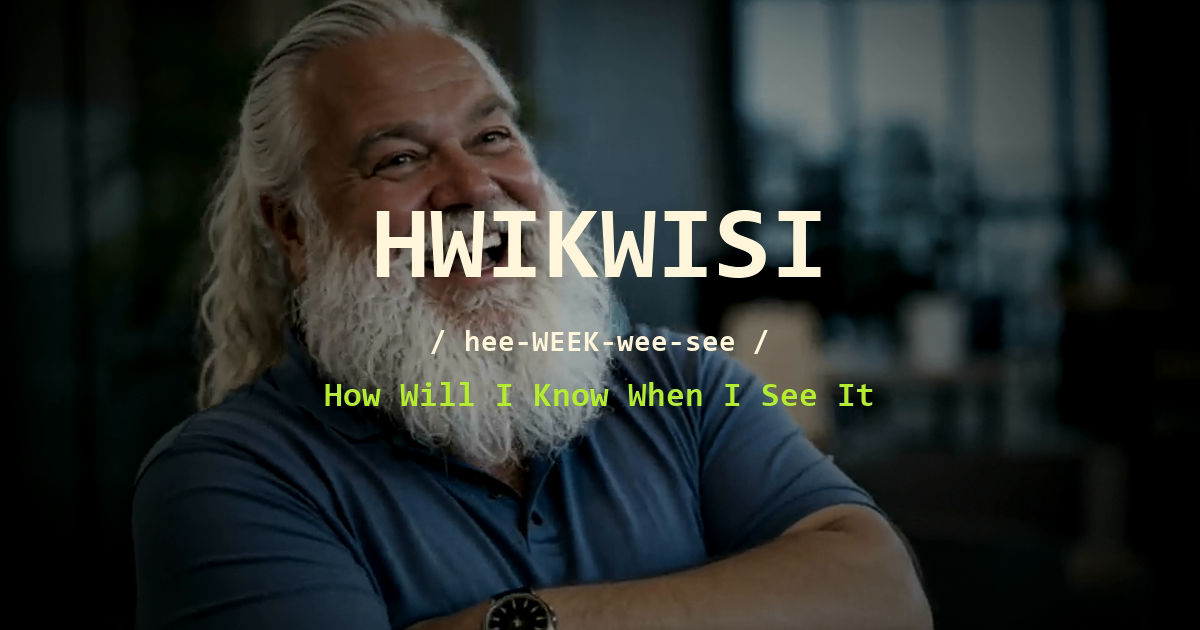
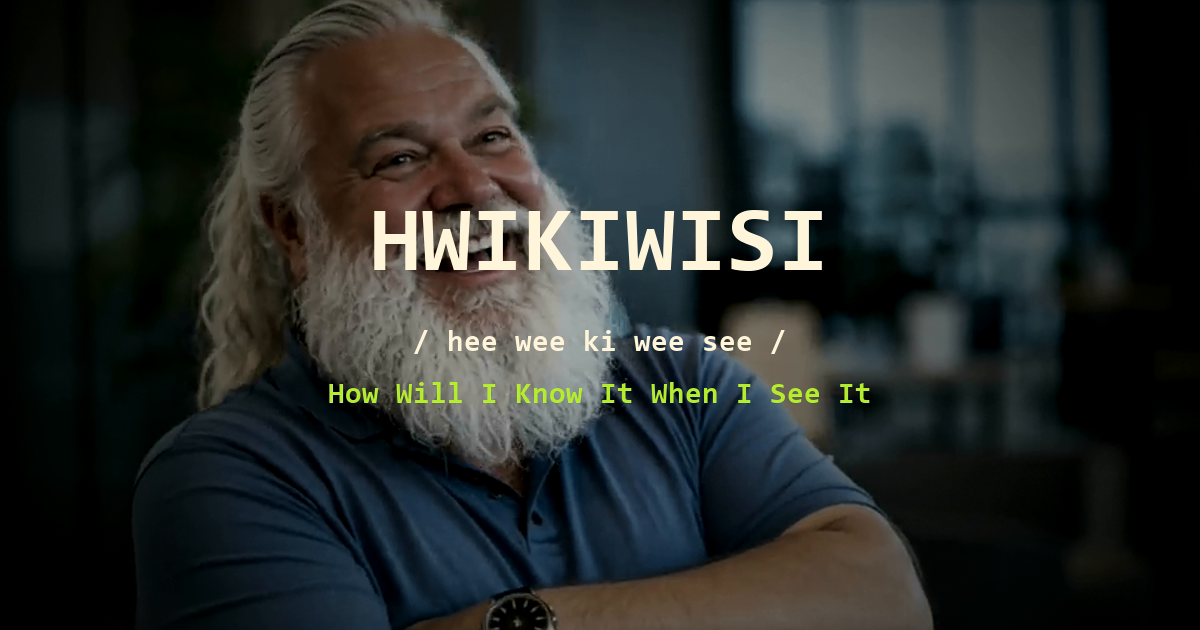
Correct HWIKIWISI copy

Changed region(s): [[0.3083, 0.3317, 0.6783, 0.4524], [0.2467, 0.6032, 0.74, 0.6635], [0.3392, 0.5127, 0.6475, 0.573]]

diff --git a/index.html b/index.html
@@ -3,15 +3,15 @@
   <head>
     <meta charset="utf-8">
     <meta name="viewport" content="width=device-width, initial-scale=1">
-    <title>HWIKWISI - How Will I Know When I See It</title>
+    <title>HWIKIWISI - How Will I Know It When I See It</title>
     <meta
       name="description"
-      content="HWIKWISI means How Will I Know When I See It: a leadership principle about clear goals, vivid outcomes, and knowing done when it appears."
+      content="HWIKIWISI means How Will I Know It When I See It: a leadership principle about clear goals, vivid outcomes, and knowing done when it appears."
     >
     <link rel="canonical" href="https://chazm.github.io/hwikwisi/">
     <meta name="theme-color" content="#050506">
 
-    <meta property="og:title" content="HWIKWISI - How Will I Know When I See It">
+    <meta property="og:title" content="HWIKIWISI - How Will I Know It When I See It">
     <meta
       property="og:description"
       content="A tiny manifesto for leaders who give teams a clear picture of the end goal: vivid enough to know it when they see it."
@@ -21,10 +21,10 @@
     <meta property="og:image" content="https://chazm.github.io/hwikwisi/assets/og-card.png">
     <meta property="og:image:width" content="1200">
     <meta property="og:image:height" content="630">
-    <meta property="og:image:alt" content="HWIKWISI title over a theatrical PM coach video still.">
+    <meta property="og:image:alt" content="HWIKIWISI title over a theatrical agile coach video still.">
 
     <meta name="twitter:card" content="summary_large_image">
-    <meta name="twitter:title" content="HWIKWISI - How Will I Know When I See It">
+    <meta name="twitter:title" content="HWIKIWISI - How Will I Know It When I See It">
     <meta
       name="twitter:description"
       content="A tiny manifesto for leaders who make the destination clear enough to recognize."
@@ -33,14 +33,14 @@
 
     <link rel="preload" href="assets/fonts/IBMPlexMono-Bold.woff2" as="font" type="font/woff2" crossorigin>
     <link rel="preload" href="assets/fonts/IBMPlexMono-Regular.woff2" as="font" type="font/woff2" crossorigin>
-    <link rel="stylesheet" href="assets/styles.css?v=coach-bg">
+    <link rel="stylesheet" href="assets/styles.css?v=hwikiwisi">
 
     <script type="application/ld+json">
       {
         "@context": "https://schema.org",
         "@type": "DefinedTerm",
-        "name": "HWIKWISI",
-        "alternateName": "How Will I Know When I See It",
+        "name": "HWIKIWISI",
+        "alternateName": "How Will I Know It When I See It",
         "description": "A leadership principle: give your team a clear, vivid picture of the end goal so they recognize success when they see it.",
         "inDefinedTermSet": "https://chazm.github.io/hwikwisi/"
       }
@@ -49,7 +49,7 @@
       {
         "@context": "https://schema.org",
         "@type": "WebSite",
-        "name": "HWIKWISI",
+        "name": "HWIKIWISI",
         "url": "https://chazm.github.io/hwikwisi/"
       }
     </script>
@@ -60,18 +60,18 @@
         "mainEntity": [
           {
             "@type": "Question",
-            "name": "What does HWIKWISI mean?",
+            "name": "What does HWIKIWISI mean?",
             "acceptedAnswer": {
               "@type": "Answer",
-              "text": "HWIKWISI means How Will I Know When I See It, a leadership reminder to define the end goal clearly enough that the team can recognize success."
+              "text": "HWIKIWISI means How Will I Know It When I See It, a leadership reminder to define the end goal clearly enough that the team can recognize success."
             }
           },
           {
             "@type": "Question",
-            "name": "How do you pronounce HWIKWISI?",
+            "name": "How do you pronounce HWIKIWISI?",
             "acceptedAnswer": {
               "@type": "Answer",
-              "text": "HWIKWISI is pronounced hee-WEEK-wee-see."
+              "text": "HWIKIWISI is pronounced hee wee ki wee see."
             }
           }
         ]
@@ -80,19 +80,19 @@
   </head>
   <body>
     <div class="bg" aria-hidden="true">
-      <video class="bg-video" autoplay muted loop playsinline preload="none" poster="assets/poster.webp?v=coach-bg">
-        <source src="assets/hwikwisi.webm?v=coach-bg" type="video/webm">
-        <source src="assets/hwikwisi.mp4?v=coach-bg" type="video/mp4">
+      <video class="bg-video" autoplay muted loop playsinline preload="none" poster="assets/poster.webp?v=hwikiwisi">
+        <source src="assets/hwikwisi.webm?v=hwikiwisi" type="video/webm">
+        <source src="assets/hwikwisi.mp4?v=hwikiwisi" type="video/mp4">
       </video>
       <div class="bg-pulse"></div>
       <div class="bg-scrim"></div>
     </div>
 
     <main>
-      <header class="hero" aria-label="HWIKWISI manifesto">
-        <h1>HWIKWISI</h1>
-        <p class="pronounce">/ hee-WEEK-wee-see /</p>
-        <p class="expansion">How Will I Know When I See It</p>
+      <header class="hero" aria-label="HWIKIWISI manifesto">
+        <h1>HWIKIWISI</h1>
+        <p class="pronounce">/ hee wee ki wee see /</p>
+        <p class="expansion">How Will I Know It When I See It</p>
 
         <p class="typer" aria-live="off">
           <span class="typed"></span><span class="caret">|</span>
@@ -113,9 +113,9 @@
     </main>
 
     <footer>
-      <p>PM coach coinage. Preserved with maximum seriousness.</p>
+      <p>Agile coach coinage. Preserved with maximum seriousness.</p>
     </footer>
 
-    <script src="assets/main.js?v=coach-bg" defer></script>
+    <script src="assets/main.js?v=hwikiwisi" defer></script>
   </body>
 </html>

diff --git a/404.html b/404.html
@@ -4,14 +4,14 @@
     <meta charset="utf-8">
     <meta name="viewport" content="width=device-width, initial-scale=1">
     <meta name="robots" content="noindex">
-    <title>HWIKWISI - Not Found</title>
+    <title>HWIKIWISI - Not Found</title>
     <link rel="stylesheet" href="assets/styles.css">
   </head>
   <body>
     <main>
       <header class="hero" aria-label="Not found">
-        <h1>HWIKWISI</h1>
-        <p class="pronounce">/ hee-WEEK-wee-see /</p>
+        <h1>HWIKIWISI</h1>
+        <p class="pronounce">/ hee wee ki wee see /</p>
         <p class="expansion">This is not the thing.</p>
         <blockquote class="manifesto">
           A good leader gives their team a clear picture of the end.

diff --git a/AGENTS.md b/AGENTS.md
@@ -2,7 +2,7 @@
 
 ## Project Intent
 
-HWIKWISI is a one-page, static, SEO-first homage to the phrase "How Will I Know When I See It." The joke is the contrast: the DOM and layout should feel plain, reverent, and manifesto-like, while the background motion carries a cheesy agile coach aesthetic.
+HWIKIWISI is a one-page, static, SEO-first homage to the phrase "How Will I Know It When I See It." The joke is the contrast: the DOM and layout should feel plain, reverent, and manifesto-like, while the background motion carries a cheesy agile coach aesthetic.
 
 ## Non-Negotiables
 
@@ -12,15 +12,15 @@ HWIKWISI is a one-page, static, SEO-first homage to the phrase "How Will I Know 
 - Preserve the single-screen, height-locked hero. Use `100svh` and `100dvh`, not plain `100vh`.
 - Keep the page fully responsive, with no scrolling required for the main experience.
 - Respect `prefers-reduced-motion`; animations should stop, the typewriter should become static, and the video should pause/degrade gracefully.
-- Maintain one `<h1>` only: `HWIKWISI`.
+- Maintain one `<h1>` only: `HWIKIWISI`.
 
 ## Core Copy
 
 The key SEO and meaning-bearing text should remain real DOM text:
 
-- `HWIKWISI`
-- `/ hee-WEEK-wee-see /`
-- `How Will I Know When I See It`
+- `HWIKIWISI`
+- `/ hee wee ki wee see /`
+- `How Will I Know It When I See It`
 - `A good leader gives their team a clear picture of the end - vivid enough that they'll know it when they see it.`
 
 The typewriter phrases are decorative enhancement, not ranking content.

diff --git a/README.md b/README.md
@@ -1,12 +1,12 @@
-# HWIKWISI
+# HWIKIWISI
 
-**How Will I Know When I See It**
+**How Will I Know It When I See It**
 
-Pronounced: **hee-WEEK-wee-see**
+Pronounced: **hee wee ki wee see**
 
 A tiny, extremely serious leadership manifesto wearing a cheesy agile coach video loop.
 
-HWIKWISI is the reminder that a good leader gives the team a clear enough picture of the end goal that everyone can recognize success when it arrives. The page keeps the message plain and real in the HTML, then lets the background get earnestly cheesy about it.
+HWIKIWISI is the reminder that a good leader gives the team a clear enough picture of the end goal that everyone can recognize success when it arrives. The page keeps the message plain and real in the HTML, then lets the background get earnestly cheesy about it.
 
 ## What Is This?
 
@@ -52,7 +52,7 @@ sitemap.xml                 Single-page sitemap
 
 - Keep it static: HTML, CSS, and vanilla JS.
 - Keep the important copy in the initial HTML.
-- Keep one `h1`: `HWIKWISI`.
+- Keep one `h1`: `HWIKIWISI`.
 - Keep it one screen.
 - Keep the media decorative.
 - Keep reduced-motion behavior respectful.
